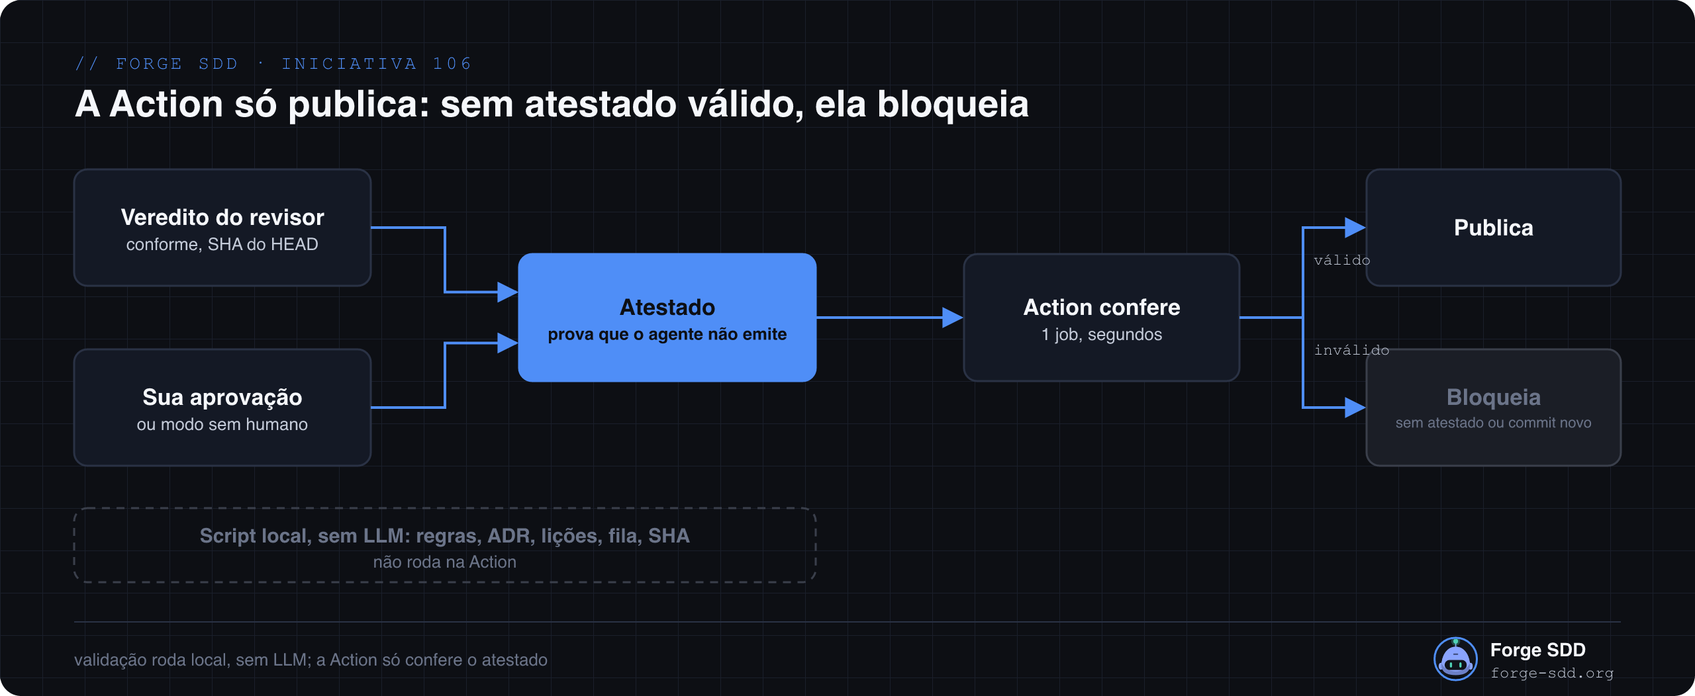
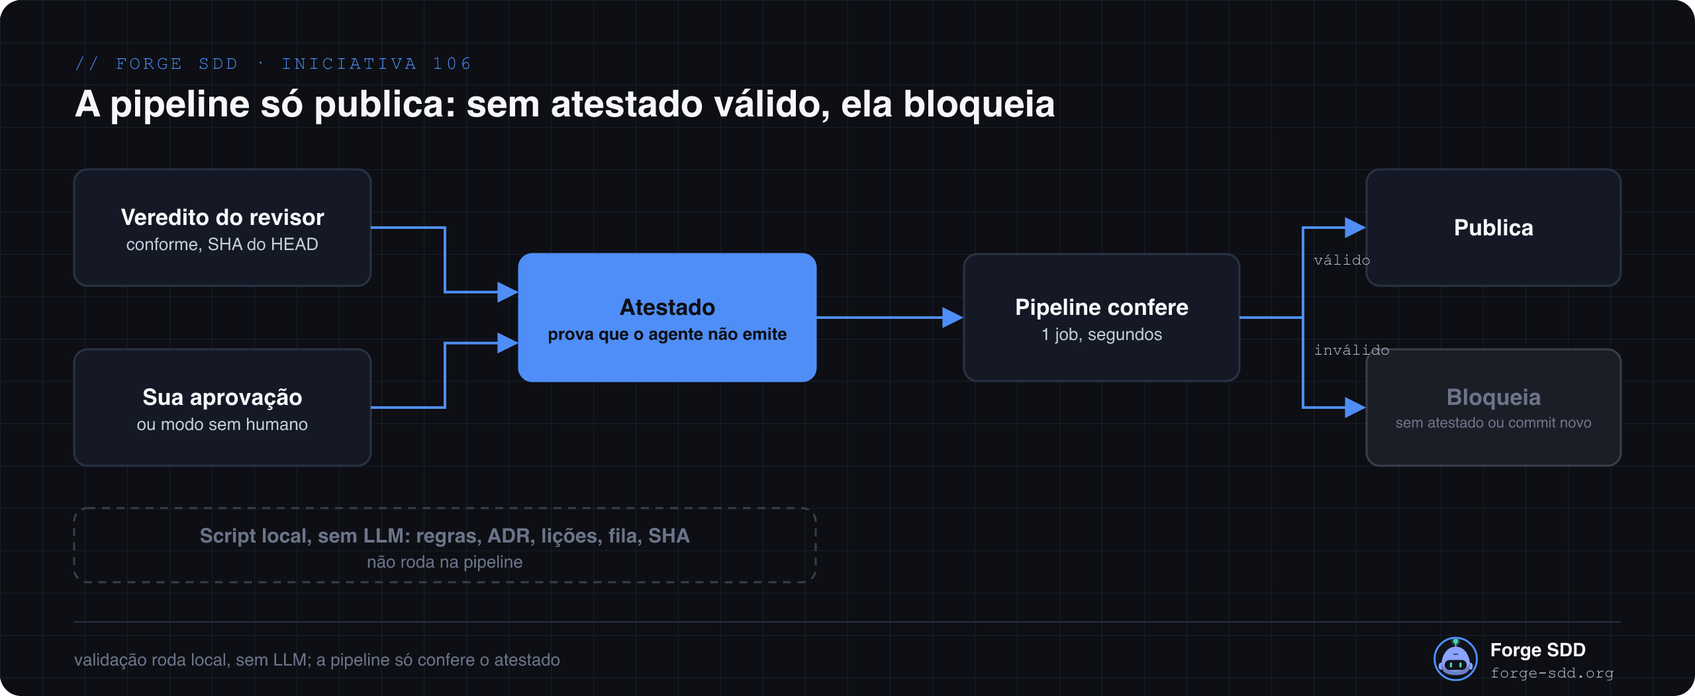
docs(106): política independente de VCS com adaptador lido da Constituição
Adaptador github, azure-devops e nenhum (internal/vcs), tabela por operação com
o que ainda está a verificar no Azure DevOps, hook para gh, az e MCP, atestado por
VCS e onda 0 no plano. Diagramas regerados sem referência a GitHub. Escopo volta
a aguardar reaprovação.

Claude-Session: https://claude.ai/code/session_01SPFA8upV4qiJJ5Y1pRT74k

diff --git a/sdd/discovery/106-pr-draft-revisao-e-ci/discovery.md b/sdd/discovery/106-pr-draft-revisao-e-ci/discovery.md
@@ -23,6 +23,27 @@ Nathan (dono; decide gates e merge) e os agentes que abrem PR nos repositórios 
 - Job pulado por `if` não usa runner (não gasta minuto); a execução aparece vazia.
 - Job pulado conta como sucesso em check obrigatório: um draft pode ser mesclado sem CI. Mitigação: hook e veredito com SHA (RN-6, RN-7).
 
+## Adaptador de VCS (reaberto pelo dono: "a ferramenta de VCS é definida pela Constituição")
+O dono pediu que a política não sirva só a quem usa GitHub. O VCS vem da Constituição (`VCS / Work Item System`: `github`, `azure-devops`, `nenhum`; o `card` do PM MCP em `internal/config/forge.go:185` é outro conceito, o work item). Preferência por economia de tokens: GitHub com `gh`; Azure DevOps com o MCP do Azure DevOps, autenticação interativa (flag exata: **a verificar**), e `az repos` como alternativa.
+
+Legenda: **fato** = conferido no repositório; **a verificar** = não confirmei; a prova proposta está na coluna final.
+
+| Operação | `github` | `azure-devops` | `nenhum` | Prova do "a verificar" |
+|---|---|---|---|---|
+| Criar PR em draft | `gh pr create --draft` (fato: o código hoje usa `gh pr create` sem `--draft`, `internal/pipeline/pr.go:144`) | MCP do Azure DevOps (criar PR; suporte a draft: a verificar); alternativa `az repos pr create --draft true` (nome e valor da flag: a verificar) | não há PR: branch pronta e aviso (fato: nota da Constituição, linha 30) | PR de teste em cada VCS (task 3.5) e consulta à documentação no context7 |
+| Procurar PR aberto da branch | `gh pr list --head <branch> --json ...` (fato: `pr.go:231`) | `az repos pr list --source-branch` ou MCP (a verificar) | n/a | idem |
+| Marcar pronto | `gh pr ready` | MCP (atualizar PR) ou `az repos pr update --id <n> --draft false` (a verificar) | n/a: o [Continuar] só libera a branch | idem |
+| Mesclar | `gh pr merge` (decisão do dono) | `az repos pr update --status completed` ou MCP (a verificar) | merge feito pelo dono fora do Forge | idem |
+| Veredito e SHA | arquivo `verdicts/*.json` com `head_sha` (igual em todos) | igual | igual | testes Go |
+| Aprovação do dono (prova) | Environment com revisor obrigatório (**aprovada**, Decisão vi); fallback commit/tag assinado | candidatos: política de branch com revisores obrigatórios; aprovação em Environment do Azure Pipelines; se o autor pode aprovar o próprio PR: a verificar | só o veredito local com SHA mais a aprovação no chat | PR de teste e documentação; escolha em Decisão xi |
+| Pular CI em draft | Actions: `if: github.event.pull_request.draft == false` e `ready_for_review` (dado pelo dono) | build validation da política de branch; se roda em PR draft: a verificar; variável de draft no pipeline YAML: a verificar | sem CI do VCS | PR de teste draft no Azure |
+| Proteger contra o agente | hook `PreToolUse` em `gh pr ...` | hook em `az repos pr ...` e nas ferramentas MCP (se o matcher alcançar: a verificar) | nada a bloquear | teste do hook (task 1.5) |
+| O que se perde | nada | depende do que o Azure suportar | prova externa: nada impede o agente de forjar veredito e aprovação; CI do VCS inexistente; risco igual ao do modo sem humano | Decisão xii |
+
+Fatos sobre o hook no repositório: `mergeClaudeHook` grava o grupo `{"hooks":[{"type":"command","command":...}]}` **sem a chave `matcher`** (`internal/scaffold/hooks.go:34-111`); portanto hoje não filtra por ferramenta. Se o `PreToolUse` sem matcher cobre todas as ferramentas, incluindo as de MCP, e como o matcher nomeia ferramentas de MCP: **a verificar** (documentação do Claude Code). Plano: o `pr_guard.py` lê o `tool_name` e o comando do JSON do hook e decide por VCS.
+
+Pontos do código que assumem `gh` hoje: `internal/pipeline/pr.go:31` (lista de comandos permitidos só `git` e `gh`), `:138`, `:144`, `:231`, `:244`; `internal/queue/pr.go:19`, `:41`, `:60`, `:101`, `:108`; `cmd/forge-sdd/review.go:90` (texto "publique com gh pr comment"); `internal/config/forge.go:181` (`AllowCommands: git, gh, forge-sdd`); skills e templates `.agents/skills/sdd-operacao/references/inbox.md:9` (`gh pr merge`) e `sdd-governanca/references/pr-review.md`. Já tratam os três valores só texto: `sdd-build/references/implementar.md:26` e `sdd-concepcao/references/constitution.md` passo 3. Não há abstração de VCS no Go (nenhuma ocorrência de "VCS" em `*.go`) e nenhum código lê o campo da Constituição.
+
 ## Diagramas (feitos pela outra sessão com o diagram-studio; conferidos contra esta spec)
 - Fluxo: `diagramas/forge-106-fluxo.png` (`.json`, `.svg`).
 - Atestado: `diagramas/forge-106-atestado.png` (`.json`, `.svg`).
@@ -38,17 +59,19 @@ Conferência em imagem: os três batem com a jornada abaixo (dois pontos de revi
 6. Commits locais, sem revisor no meio. Fila de todas as features vazia e checagem local verde: `pronto-para-revisao`.
 7. **Revisão 2 (entrega):** primeiro o script local determinístico (RN-12); depois o revisor (LLM) só no que exige julgamento, conferindo o código contra a spec e, principalmente, ADRs, rules, Constituição e pré-definições.
 8. Desvio: o revisor abre um **novo-fix** para cada desvio (mapeia o erro, alimenta as lições) e devolve ao Builder. Fix de algo já desenvolvido tem prioridade sobre feature nova; o Builder paraleliza os fixes e devolve ao revisor. Repete até conformidade, com teto (RN-5).
-9. Conforme: o Forge pergunta [Continuar] ou [Ajustar]. Só [Continuar] tira o PR do draft (`gh pr ready`; o CI roda uma vez).
+9. Conforme: o Forge pergunta [Continuar] ou [Ajustar]. Só [Continuar] tira o PR do draft (operação "marcar pronto" do adaptador de VCS; no GitHub, `gh pr ready`; o CI roda uma vez).
 10. Antes de publicar, a pipeline só confere o **atestado** (RN-13). Sem atestado válido, bloqueia. Com checks verdes, o menu do merge (decisão do humano).
 
 ## Regras de negócio
-- **RN-1** O PR nasce em draft (`gh pr create --draft`), sem perguntar, nos três comandos de concepção.
+- **RN-0** A política é **independente de VCS**: um adaptador lido da Constituição (`VCS / Work Item System`: `github`, `azure-devops`, `nenhum`; `sdd/memory/constitution.md:28`) escolhe os comandos. Não há requisito que valha só para GitHub. Onde o Azure DevOps não foi verificado, a spec diz "a verificar" e propõe a prova (tabela abaixo).
+- **RN-1** O PR nasce em draft (operação "criar PR em draft" do adaptador; no GitHub, `gh pr create --draft`), sem perguntar, nos três comandos de concepção. Com `nenhum` não há PR: o Forge deixa a branch pronta e informa.
 - **RN-2** Em draft o CI não roda (jobs pulados). Roda uma vez no `ready_for_review` e na `main`.
 - **RN-3** Revisão em exatamente dois pontos: antes do Builder (spec) e depois (entrega). Nunca no meio, nem por task entregue.
 - **RN-4** Cada ponto tem um sinal determinístico no `status.md`: `spec-para-revisao` e `pronto-para-revisao` (este exige fila da onda vazia e checagem local verde). A revisão só se repete quando o sinal do ponto se repetir.
 - **RN-5** O revisor devolve o veredito ao humano. Ajuste volta a quem originou (discovery, nova-feature, novo-fix ou Builder). Teto de 2 rodadas automáticas por ponto; depois pergunta ao humano.
 - **RN-6** "Fechar o PR?" só aparece com veredito conforme em tudo. O veredito guarda o SHA do HEAD; commit novo o invalida.
-- **RN-7** `gh pr create` só com `--draft`; `gh pr ready` e `gh pr merge` só com veredito conforme do SHA atual. Garantido pelos passos dos comandos **e** por hooks do Claude Code.
+- **RN-7** Criar PR só em draft; marcar pronto e mesclar só com veredito conforme do SHA atual, em qualquer VCS (GitHub: `gh pr create/ready/merge`; Azure DevOps: `az repos pr ...` e as chamadas do MCP do Azure DevOps; `nenhum`: nada a bloquear). Garantido pelos passos dos comandos **e** por hooks do Claude Code que cobrem `gh`, `az repos pr` e, se o hook alcançar, as ferramentas do MCP (a verificar).
+- **RN-17** Caminho de menor custo em tokens: o adaptador prefere, por VCS, o caminho que o dono indicou (GitHub: `gh`; Azure DevOps: MCP do Azure DevOps com autenticação interativa, `az repos` como alternativa) e registra o critério: saída curta (`--json`/`--query`) e sem carregar definições de MCP desnecessárias. A medição real de tokens por caminho é **a verificar** (task 0.1).
 - **RN-8** Todo achado do revisor vira uma lição: um arquivo por lição em `sdd/memory/licoes/<id>.md`, com a rule violada e como evitar. Discovery, nova-feature, novo-fix e Builder leem só as lições da rule que vão tocar (`licoes.py --rule COD-02`). Nunca um arquivo único que cresce.
 - **RN-9** CI: `concurrency` com cancelamento só em PR; matriz de 3 sistemas só em PR pronto e na `main`, nunca em draft; alerta de gasto e checagem mensal por script, sem token no git (`SEG-04`).
 - **RN-10** Linux, Windows e macOS; scripts Python com `uv` e `pathlib`; cada ferramenta com um prompt "cole isto na sua IA" curto no README.
@@ -60,10 +83,11 @@ Conferência em imagem: os três batem com a jornada abaixo (dois pontos de revi
 - **RN-16** Fix de código já desenvolvido tem prioridade sobre feature nova na fila do Builder. O Builder paraleliza o que não tem dependência (features e fixes).
 
 ## O que muda na ordem (conflito com a 100)
-Hoje: veredito conforme, depois PR criado sem draft. `forge queue review` chama `queue.OpenPR` (`cmd/forge-sdd/queue.go:195`), que roda `gh pr create` (`internal/queue/pr.go:61,105`); o Builder do pipeline chama `pipeline.OpenPR` (`internal/pipeline/pr.go:71`). Agora: o PR nasce na concepção; o veredito conforme só habilita "fechar o PR?" e então `gh pr ready`. O que quebra está em `criteria.md` (`O que já existe`) e na task 1.7 do plano.
+Hoje: veredito conforme, depois PR criado sem draft. `forge queue review` chama `queue.OpenPR` (`cmd/forge-sdd/queue.go:195`), que roda `gh pr create` (`internal/queue/pr.go:61,105`); o Builder do pipeline chama `pipeline.OpenPR` (`internal/pipeline/pr.go:71`). Agora: o PR nasce na concepção; o veredito conforme só habilita "fechar o PR?" e então "marcar pronto" (adaptador de VCS). O que quebra está em `criteria.md` (`O que já existe`) e na task 1.7 do plano.
 
 ## Escopo
 **Dentro:** ADR (rascunho abaixo; arquivo só depois do Gate 1); passos de `/discovery`, `/nova-feature`, `/novo-fix`, `/revisar` e `/implementar` e das skills de concepção, build e governança; veredito com `head_sha` e `ponto`; sinais no `status.md`; hooks `PreToolUse` e instalador; `licoes.py` e `sdd/memory/licoes/`; modelo de workflow; `ci-politica.py`; READMEs com prompts "cole isto na sua IA"; templates, goldens e `/upgrade-sdd`; primeira leva de repositórios (Decisão iv).
+**Dentro (reaberto de novo, VCS agnóstico):** adaptador de VCS (`internal/vcs`: `github`, `azure-devops`, `nenhum`) lido da Constituição; `pr_guard.py` para `gh`, `az repos pr` e MCP (a verificar); workflow modelo também para Azure Pipelines (a verificar); PR de teste em cada VCS suportado. As decisões 1 a 5 e vi a ix valem como aprovadas, com a leitura GitHub-específica reescrita (job "pronto?", Actions, Environment são o caso `github`).
 **Dentro (reaberto pelo dono):** script local de validação determinística; job de verificação do atestado; modo sem humano com aviso de riscos; split e implementação pelo Builder sem nova aprovação do split; novo-fix aberto pelo revisor com prioridade; paralelismo do Builder (features e fixes).
 **Fora:** pagar ou alterar billing; migrar de CI; mexer em repositório de cliente sem aprovação; reescrever o laço do pipeline (104) ou o CLI (105); editar a 104 ou a 105; criar o arquivo da ADR agora.
 
@@ -76,7 +100,7 @@ Hoje: veredito conforme, depois PR criado sem draft. `forge queue review` chama 
 - **R6 Hooks só valem no Claude Code.** Gemini e Copilot dependem dos passos dos comandos; documentar.
 - **R7 Goldens e `/upgrade-sdd`.** Muda arquivos que o usuário recebe (`TST-02`).
 - **R8 `uv` nos repositórios-alvo e no Windows:** não verificado; o `doctor` precisa checar.
-- **R10 Atestado forjável (segurança).** Um arquivo no repositório pode ser escrito pelo agente. Se o agente roda com a credencial `gh` do dono, qualquer prova emitida via API do GitHub também é emitível por ele; só resiste o que exige algo fora do alcance do agente (clique no navegador, chave com senha ou hardware). Opções na Decisão vi.
+- **R10 Atestado forjável (segurança).** Um arquivo no repositório pode ser escrito pelo agente. Se o agente roda com a credencial do dono (`gh`, `az` ou MCP autenticado), qualquer prova emitida pela API do VCS com ela também é emitível por ele; só resiste o que exige algo fora do alcance do agente (clique no navegador, chave com senha ou hardware). Opções na Decisão vi.
 - **R11 Split sem aprovação humana.** O Builder pode fatiar fora do escopo aprovado. Mitigação: o script local confere que cada task cita o `plan.md` aprovado e que nenhuma sai dele; a Revisão 2 revisa de novo.
 - **R12 Modo sem humano.** Ninguém vê o código antes de o PR sair do draft; erro do revisor passa; custo sem teto humano (RN-14).
 - **R13 Loop fix-revisão.** O teto atual: `ApplyVerdict` só devolve se `job.Attempt < job.MaxReworkAttempts` (`internal/pipeline/review.go:132`) e o padrão é 3 (`internal/config/forge.go:192`): 3 passadas e 2 devoluções (leitura do código; não rodei). O "teto de 2 rodadas" desta política **coincide** com o padrão; não é preciso baixar para 2 (corrijo minha versão anterior, que dizia "padrão 2"). Já a devolução hoje cria `rework` com `Priority = high` (`review.go:138`), mas é nova tentativa do mesmo job, não um novo-fix. O novo-fix passa a ser o artefato do desvio e reusa o mesmo `Attempt`. Ao estourar, `ActionEscalated` (`review.go:157`) notifica o dono. Para a spec há outro contador (`nextSpecAttempt`, `internal/pipeline/spec.go:31`).
@@ -84,7 +108,8 @@ Hoje: veredito conforme, depois PR criado sem draft. `forge queue review` chama 
 
 ## Rascunho da ADR (não criar o arquivo agora)
 **Número:** próxima livre depois das ADRs da 104 (0016 a 0020) e da 105; atribuir no merge. **Título:** Política de PR em draft, revisão em dois pontos e CI só ao finalizar.
-- **Contexto:** Actions bloqueadas por cobrança; consumo evitável; revisão repetida; o auto-PR da 100 cria PR sem draft.
+- **Contexto:** Actions do GitHub bloqueadas por cobrança (o gatilho); consumo evitável; revisão repetida; o auto-PR da 100 cria PR sem draft; o fluxo chama `gh` direto em dois lugares, mas a Constituição já prevê `azure-devops` e `nenhum`.
+- **Decisão do VCS (correção do dono):** a política é independente de VCS. Um **adaptador de VCS** (novo pacote `internal/vcs`, com `github`, `azure-devops` e `nenhum`) lê o valor de `VCS / Work Item System` e expõe as operações criar PR em draft, procurar PR aberto, marcar pronto e mesclar; `queue.OpenPR` e `pipeline.OpenPR` passam a delegar a ele (hoje duplicam a mesma lógica). Onde o agente usa MCP, a skill orienta a chamada e o hook confere. **Impacto na Constituição:** o campo `VCS / Work Item System` e seus valores **não mudam**; muda só a nota da linha 30 (hoje: "use `az repos pr create` no lugar de `gh pr create`"), que passa a remeter ao adaptador e a incluir draft, pronto e o MCP do Azure DevOps. É texto, mesmo assim vai pela ADR e por `GOV-01`, na task 2.6; não editei a Constituição.
 - **Decisão:** RN-1 a RN-16. Além do que segue: Gate 1 vira pergunta [Seguir]/[Ajustar] e o split passa ao Builder sem nova aprovação (altera `FLX-01`, ver abaixo); revisor abre novo-fix com prioridade; validação final por script local sem LLM; Action só confere o atestado; modo sem humano opcional com aviso de riscos. O PR nasce em draft na concepção; o revisor atua em dois pontos com sinais no `status.md`; o veredito guarda o SHA; `ready` e `merge` só com veredito conforme do SHA atual; lições em arquivos pequenos; CI com `if` de draft, `concurrency` e matriz só em PR pronto e `main`.
 - **Consequências:** menos minutos e menos repetição de erro; custo em hooks, goldens e migração. O Reviewer deixa de criar PR. Estende ADR-0004, ADR-0012 e ADR-0013 sem substituí-las. Exige ajustar `GOV-03` (cita `lessons.md`) e `FLX-01` via `GOV-01` (a Constituição não é editada nesta discovery).
 - **Impacto exato no `FLX-01`** (`sdd/memory/constitution.md:98`; também citado em `.agents/skills/sdd-concepcao/SKILL.md` regra 6, `references/discovery.md` passo 11 e `.agents/skills/sdd-planejamento/references/split-features.md` passos 2, 8 e 9). Redação atual: "Spec antes do código: nada é implementado nem enfileirado sem Spec revisada; mudança de escopo revalida a Spec." **Redação APROVADA pelo dono em 2026-11-20** (a Constituição continua sem edição; entra na task 2.6 via `GOV-01`): "Spec antes do código: nada é implementado nem enfileirado sem Spec revisada e aprovada pelo humano no Gate 1 ([Seguir]/[Ajustar]); com o Gate 1 aprovado o Builder faz o split e enfileira sem nova aprovação, só dentro do escopo do `plan.md` aprovado; mudança de escopo revalida a Spec." Não muda o Gate 1; remove só a segunda confirmação humana do `/split-features`. No código, `forge dispatch` hoje recusa iniciativa sem tasks (`internal/pipeline/dispatch.go:130`: "rode /split-features"), então o despacho precisa aceitar job sem tasks e o split vira passo do Builder.
@@ -110,4 +135,7 @@ Decisões 1 a 5 aprovadas e mantidas. Gate 1 reaprovado pelo dono em 2026-11-20 
 7. **(vii) Teto de rodadas com novo-fix:** manter o padrão atual (`max_rework_attempts` = 3, ou seja 2 devoluções) e contar o novo-fix na mesma conta do job. **Recomendo manter**; ao estourar, pergunta ao dono. Alternativa: contador separado por fix (mais permissivo, mais custo).
 8. **(viii) Assinatura dos diagramas da 106:** padrão do plugin ou nenhuma? A outra sessão diz que o dono aprovou a padrão; não consegui confirmar (na 118 ele escolheu "sem assinatura"). Resolvida: assinatura do projeto (Forge SDD, forge-sdd.org, avatar `diagramas/forge-sdd-avatar.png`, desenho de `MascotFallbackSvg.astro`, cor #8aa4ff, marca "bar"); sem nome nem LinkedIn pessoais.
 9. **(ix) Formato do BPMN.** O BPMN simplificado (gateways como caixas "◇", eventos como pílulas, 4 raias) mostra quem faz o quê e os dois gates, que é o que o Gate 1 precisa. Não mostra o teto de rodadas como evento de escalonamento, o script local nem a escolha do modo. **Recomendo manter o simplificado** na spec e só migrar para BPMN completo (eventos, escalonamento) se a ADR final pedir um diagrama normativo. A legenda no rodapé cobre o teto e o modo.
-10. **(x) PRs de task do leque em draft** continua em `status.md` (A confirmar), junto com o escopo do novo fluxo: o dono precisa reaprovar o escopo antes do `/split-features`.
+11. **(xi) Prova do atestado por VCS** (novo; não troca a (vi) aprovada para o GitHub). GitHub: (e) Environment com revisor, fallback (d). Azure DevOps: candidatos (1) aprovação em Environment do Azure Pipelines com aprovadores, (2) política de branch com revisores obrigatórios e build validation, (3) commit assinado. **Recomendo (1)**, por ser o análogo direto do Environment do GitHub, sujeito às provas da task 3.5; só vale se o Azure permitir que o agente não emita a aprovação (a verificar). `nenhum`: ver (xii).
+12. **(xii) `nenhum`: aceitar atestado só local** (veredito com SHA e aprovação no chat)? **Recomendo sim, com aviso explícito** dos riscos (sem prova externa, igual ao modo sem humano) gravado no `status.md` e no veredito.
+13. **(xiii) Critério de custo em tokens** entre MCP e CLI: manter a preferência do dono (`gh`; MCP do Azure DevOps com `az` de alternativa) e medir na task 0.1. **Recomendo** registrar a medição antes de fixar o padrão por VCS.
+(Itens 6 a 9 e o `FLX-01` foram aprovados; 11 a 13 são novos e reabrem o Gate 1 para o escopo VCS agnóstico.) PRs de task do leque em draft segue em `status.md` (A confirmar); o dono precisa reaprovar o escopo antes do `/split-features`.

diff --git a/sdd/discovery/106-pr-draft-revisao-e-ci/criteria.md b/sdd/discovery/106-pr-draft-revisao-e-ci/criteria.md
@@ -8,7 +8,7 @@
 - `TST-01`, `TST-02` (goldens), `TST-03` (casos conformes e negativos), `TST-04`, `COD-05`, `GOV-01` (ajustar `GOV-03` e, se a Decisão i mudar, a regra 2 exige ADR).
 
 ## Modelo do módulo
-**Enxuto**, com justificativa (`ARQ-11`): não há pacote de domínio novo. A política é distribuída em (a) um campo novo no contrato existente do veredito (`internal/harness`), (b) mudança de ordem em `internal/queue` e `internal/pipeline`, (c) scripts Python e workflow modelo entregues pelo scaffold e (d) texto dos comandos e skills. Cada parte tem um dono único: o veredito (`harness`), a abertura e o fechamento do PR (`queue`/`pipeline`), a barreira de `gh` (hook), a lição (`licoes.py`), o CI (workflow e `ci-politica.py`). Sem estado persistente novo além de `head_sha` no veredito e dos arquivos de lição.
+**Completo** (`ARQ-11`; antes era enxuto, mudou com o escopo VCS agnóstico): um pacote novo, `internal/vcs` (interface `Adaptador` com criar PR em draft, procurar PR aberto, marcar pronto e mesclar; implementações `github`, `azure-devops` e `nenhum`; leitura do campo `VCS / Work Item System` da Constituição), com dependência para dentro (só stdlib, `ARQ-04`) e sem importar `cmd/` (`ARQ-01`, `ARQ-02`). O restante é distribuído em (a) um campo novo no contrato do veredito (`internal/harness`), (b) `internal/queue` e `internal/pipeline` passam a delegar ao adaptador, (c) scripts Python e workflows modelo entregues pelo scaffold e (d) texto dos comandos e skills. Cada parte tem um dono único: o veredito (`harness`), a abertura e o fechamento do PR (`queue`/`pipeline`), a barreira de `gh` (hook), a lição (`licoes.py`), o CI (workflow e `ci-politica.py`). Sem estado persistente novo além de `head_sha` no veredito e dos arquivos de lição.
 
 ## Decisões do projeto aplicadas
 - **ADR-0004:** o Go decide o fluxo; o revisor não aprova nem cria PR por conta própria. Esta iniciativa estende: o PR é criado antes, na concepção.
@@ -23,6 +23,8 @@
 | Procurei | Onde | Achei | Decisão | Justificativa |
 |---|---|---|---|---|
 | Revisão do PR e fila | `forge queue review`; `cmd/forge-sdd/queue.go:185-199` | Registra o parecer e, se `conforme` e sem `--no-pr`, chama `queue.OpenPR` | **Estender**: conforme não cria PR; oferece "fechar o PR?" | `DUP-03`; a flag `--no-pr` vira o padrão |
+| Abstração de VCS | `*.go` (busca por "VCS"), `sdd/memory/constitution.md:28,30`, `.agents/skills/sdd-build/references/implementar.md:26`, `sdd-concepcao/references/constitution.md` passo 3 | Nenhuma no Go; nenhum código lê o campo da Constituição; só as skills tratam `github`, `azure-devops` e `nenhum`, em texto; `forge.go:185` lista `azure-devops` para o card (PM), outro conceito | **Criar** `internal/vcs`; o texto das skills passa a apontar para ele | `DUP-01`: um dono para PR; dois `OpenPR` duplicam hoje |
+| Chamadas `gh` no Go | `internal/pipeline/pr.go:31,138,144,231,244`; `internal/queue/pr.go:19,41,60,101,108`; `cmd/forge-sdd/review.go:90`; `internal/config/forge.go:181` (`AllowCommands`) | `gh` fixo; lista de comandos permitidos só `git`/`gh` (`SEG-03`) | **Estender**: delegar ao adaptador; permitir `az` apenas no adaptador do Azure | `DUP-03`, `SEG-03` |
 | Criação de PR (fila) | `internal/queue/pr.go:35,61,105` | `gh pr create` sem `--draft` | **Estender**: só `ready` se o PR existe; sem PR, erro orientando | Ordem invertida (RN-7) |
 | Criação de PR (pipeline) | `internal/pipeline/pr.go:71,131` | `OpenPR` do Builder: gate A, push, `findOpenPR`, cria se não existir, corrige base | **Estender**: PR existente é o caso normal; se faltar, abre em draft | `findOpenPR` já trata o PR pré-existente |
 | Reviewer da esteira | `internal/pipeline/review.go:60` (`ApplyVerdict`), `internal/pipeline/spec.go:72` (`ApplySpecVerdict`), `prompt.go:56-66` | Dois aplicadores: entrega e spec; checklist único `ReviewChecklist` | **Reusar**: já são os dois pontos | `DUP-01`; só falta o sinal e o SHA |
@@ -48,7 +50,7 @@
 | Sobreposição com a 105 | `feat/105-experiencia-cli-e-harness` (`discovery.md`, `plan.md`) | Onda 1 troca "5 estações" nos mesmos templates e goldens; onda 2 cria menus e tema (RN-7 da 105 = handoff com menu: as perguntas [Seguir]/[Continuar] devem usar o mesmo componente); onda 3 mede proficiência (`doctor --harness`, `eval`) | **Independente**: lições, CI, atestado, `pr_guard`, `validar_entrega.py`, veredito. **Colide**: templates e goldens de comandos e skills (inclui `split-features.md`), `hooks.go`, texto do `doctor`, menus, numeração de ADR. Não editei a 105 | Detalhe em `status.md` |
 
 ## Dependências novas
-**Nenhuma no binário nem no `go.mod`** (`ARQ-04`, `SEG-07`). Ferramentas já usadas ou do ambiente do dono: `gh` (já usado pelo código, `internal/queue/pr.go`), `git`, `uv` e Python 3 para os scripts distribuídos (não entram no binário; a task 1.3 consulta o `context7`/documentação do `uv` na versão exata antes de fixar o comando e o `doctor` passa a checar a presença). Nenhum token de CI ou de billing é guardado no repositório: `ci-politica.py` lê `gh auth` do ambiente.
+**Nenhuma no binário nem no `go.mod`** (`ARQ-04`, `SEG-07`). Ferramentas já usadas ou do ambiente do dono, conforme o VCS da Constituição: `gh` (já usado pelo código, `internal/queue/pr.go`) no `github`; no `azure-devops`, o `az` (CLI do Azure, com a extensão `azure-devops`: a verificar) e/ou o MCP do Azure DevOps (autenticação interativa; ainda não está em `sdd/memory/mcps.md`, que lista só `context7` e `git`); `nenhum` não usa nenhuma. Também `git`, `uv` e Python 3 para os scripts distribuídos (não entram no binário; a task 1.3 consulta o `context7`/documentação do `uv` na versão exata antes de fixar o comando e o `doctor` passa a checar a presença). Nenhum token de CI ou de billing é guardado no repositório: `ci-politica.py` lê a autenticação do VCS do ambiente (`gh auth` ou `az login`). A consulta ao `context7`/documentação do `az repos` e do MCP do Azure DevOps (`SEG-07`) é pré-requisito da task 0.1.
 
 ## Diagramas
 Diagramas do diagram-studio (versionados em `diagramas/`): fluxo `diagramas/forge-106-fluxo.png`, atestado `diagramas/forge-106-atestado.png` e BPMN simplificado `diagramas/forge-106-bpmn.png` (cada um com `.json` e `.svg`). Os três Mermaid abaixo (C4) refletem o fluxo final.
@@ -60,12 +62,12 @@ flowchart LR
   A["Agentes: Discovery,<br/>Builder e Revisor"]
   F["forge-sdd<br/>comandos, hooks, scripts"]
   R["Repositório do projeto<br/>spec, status, lições"]
-  G["GitHub<br/>PR, draft"]
-  P["Pipeline (Action)<br/>só confere o atestado e publica"]
+  G["VCS (Constituição)<br/>PR, draft"]
+  P["Pipeline do VCS<br/>só confere o atestado e publica"]
   H -->|"decide nos 2 gates"| A
   A -->|"usa"| F
   F -->|"grava artefatos"| R
-  F -->|"gh pr create, ready"| G
+  F -->|"adaptador: criar, pronto"| G
   H -->|"prova de aprovação"| G
   G -->|"dispara ao sair do draft"| P
   P -->|"publica se atestado vale"| G
@@ -76,12 +78,12 @@ flowchart LR
 flowchart TB
   CMD["Comandos e skills<br/>passos e menus"]
   HK["Hook PreToolUse<br/>pr_guard.py"]
-  CLI["forge CLI em Go<br/>review, queue, dispatch"]
+  CLI["forge CLI em Go<br/>review, queue, internal/vcs"]
   VAL["validar_entrega.py<br/>local, sem LLM"]
   VER["Veredito JSON<br/>head_sha, ponto, modo"]
   LIC["licoes.py<br/>sdd/memory/licoes"]
   ACT["Job atestado<br/>ubuntu, segundos"]
-  GH["GitHub<br/>PR e Actions"]
+  GH["VCS: github, azure-devops<br/>ou nenhum"]
   CMD -->|"abre draft"| GH
   CMD -->|"chama"| CLI
   CLI -->|"roda"| VAL
@@ -89,7 +91,7 @@ flowchart TB
   CLI -->|"grava e novo-fix"| LIC
   CMD -->|"lê lições da rule"| LIC
   HK -->|"lê"| VER
-  HK -->|"bloqueia gh fora da regra"| GH
+  HK -->|"bloqueia gh, az, MCP fora da regra"| GH
   ACT -->|"confere SHA e prova"| GH
 ```
 
@@ -100,8 +102,8 @@ sequenceDiagram
   participant C as Comando
   participant R as Revisor
   participant B as Builder
-  participant G as GitHub
-  C->>G: push e gh pr create --draft
+  participant G as VCS
+  C->>G: push e criar PR em draft
   C->>R: spec-para-revisao
   R-->>D: conforme: Seguir ou Ajustar?
   D->>B: Seguir (sem aprovar o split)
@@ -109,7 +111,7 @@ sequenceDiagram
   B->>R: pronto-para-revisao
   R-->>B: desvio vira novo-fix, prioridade
   R-->>D: conforme: Continuar ou Ajustar?
-  D->>G: Continuar: gh pr ready e prova
+  D->>G: Continuar: marcar pronto e prova
   G->>G: job confere o atestado e publica
 ```
 
@@ -122,11 +124,13 @@ go build ./... && go vet ./... && go test ./...
 go test ./internal/harness/... -run 'TestParecerGravaHeadSHA'
 go test ./internal/queue/... -run 'TestReviewConformeNaoCriaPR'
 go test ./internal/scaffold/... -run 'TestMergePreToolUseHook'
+go test ./internal/vcs/... -run 'TestGitHubCriaPRComDraft|TestAzureDevOpsCriaPRSemGitHub|TestNenhumDeixaABranchPronta|TestLeVCSDaConstituicao'
 go test ./internal/pipeline/... -run 'TestDesvioAbreNovoFixComPrioridade|TestBuilderFazSplitSemSegundaAprovacao|TestFixesParalelosNaOnda'
 uv run --no-project python -m unittest discover -s scripts/tests -p 'test_*.py'
 uv run scripts/validar_entrega.py --json --sem-llm
 uv run scripts/atestado.py --verificar --sha HEAD
 uv run scripts/pr_guard.py --check 'gh pr create --draft --fill'
+uv run scripts/pr_guard.py --check 'az repos pr create --draft true --title x'
 uv run scripts/licoes.py --rule COD-02 | grep -o 'COD-02' | wc -l
 # negativo: cada caso abaixo deve falhar, e o teste existe de fato
 go test ./internal/harness/... -list 'TestParecerSemHeadSHARecusado' | grep -F 'TestParecerSemHeadSHARecusado'
@@ -135,6 +139,14 @@ go test ./internal/queue/... -list 'TestReadySemVereditoDoSHARecusado' | grep -F
 go test ./internal/queue/... -run 'TestReadySemVereditoDoSHARecusado'
 go test ./internal/pipeline/... -list 'TestTerceiraRodadaPerguntaAoHumano' | grep -F 'TestTerceiraRodadaPerguntaAoHumano'
 go test ./internal/pipeline/... -run 'TestTerceiraRodadaPerguntaAoHumano'
+go test ./internal/vcs/... -list 'TestAzureDevOpsNaoChamaGh' | grep -F 'TestAzureDevOpsNaoChamaGh'
+go test ./internal/vcs/... -run 'TestAzureDevOpsNaoChamaGh'
+go test ./internal/vcs/... -list 'TestNenhumNaoExecutaComandoDeVCS' | grep -F 'TestNenhumNaoExecutaComandoDeVCS'
+go test ./internal/vcs/... -run 'TestNenhumNaoExecutaComandoDeVCS'
+go test ./internal/vcs/... -list 'TestVCSDesconhecidoRecusado' | grep -F 'TestVCSDesconhecidoRecusado'
+go test ./internal/vcs/... -run 'TestVCSDesconhecidoRecusado'
+if uv run scripts/pr_guard.py --check 'az repos pr create --title x'; then exit 1; fi
+if uv run scripts/pr_guard.py --check 'az repos pr update --id 7 --draft false'; then exit 1; fi
 go test ./internal/pipeline/... -list 'TestSplitForaDoPlanoRecusado' | grep -F 'TestSplitForaDoPlanoRecusado'
 go test ./internal/pipeline/... -run 'TestSplitForaDoPlanoRecusado'
 go test ./internal/pipeline/... -list 'TestModoSemHumanoExigeAvisoDeRiscos' | grep -F 'TestModoSemHumanoExigeAvisoDeRiscos'
@@ -144,7 +156,8 @@ if uv run scripts/validar_entrega.py --json --sem-llm --fixture scripts/tests/fi
 if uv run scripts/pr_guard.py --check 'gh pr create --fill'; then exit 1; fi
 if uv run scripts/pr_guard.py --check 'gh pr merge 7'; then exit 1; fi
 ```
-- Draft real: um PR de teste com `gh pr create --draft` mostra todos os jobs `skipped`; depois de `gh pr ready` os jobs rodam uma vez (task 3.5; evidência colada no PR).
+- Cada VCS suportado tem prova própria na task 3.5: `github` (abaixo), `azure-devops` (PR de teste em draft; se a build validation roda em draft e como marcar pronto: a verificar) e `nenhum` (branch pronta, sem comando de VCS).
+- Draft real no GitHub: um PR de teste com `gh pr create --draft` mostra todos os jobs `skipped`; depois de `gh pr ready` os jobs rodam uma vez (task 3.5; evidência colada no PR).
 - Atestado real: no mesmo PR de teste, `gh pr ready` com SHA sem veredito conforme faz o job de atestado falhar e bloquear a publicação; com atestado válido ele passa (task 3.5).
 - Dois pontos: com fila de 3 tasks entregues, o laço registra 0 revisões entre `spec-para-revisao` e `pronto-para-revisao` (task 1.6); os fixes abertos pelo revisor não disparam revisão até o sinal se repetir.
 - `validar_entrega.py` nunca chama LLM nem rede, e não é referenciado em nenhum workflow (conferência em `3.2`).

diff --git a/sdd/discovery/106-pr-draft-revisao-e-ci/plan.md b/sdd/discovery/106-pr-draft-revisao-e-ci/plan.md
@@ -1,6 +1,14 @@
-# Plano — 106 (3 ondas, de baixo para cima)
+# Plano — 106 (4 ondas, de baixo para cima; escopo VCS agnóstico)
 
 Ordem: contrato e scripts primeiro; depois o fluxo; CI e atestado por último. Nada roda sem a reaprovação do escopo (`FLX-01`). Cada task traz teste negativo (`TST-03`) e passa em `forge gate --criterios`. Até 7 tasks por onda.
+
+## Onda 0 — Adaptador de VCS (base; o VCS vem da Constituição: `github`, `azure-devops`, `nenhum`)
+| # | Task | Depende de | Paralelo | Rules |
+|---|---|---|---|---|
+| 0.1 | Verificar o que está "a verificar" na tabela do discovery: documentação (context7) do `az repos pr` e do MCP do Azure DevOps (flags de draft, marcar pronto, merge, autenticação interativa), build validation em draft, aprovação em Environment e se o autor aprova o próprio PR; medir tokens MCP versus CLI; escrever o resultado na spec | — | com 0.2 | `SEG-07`, `DUP-02` |
+| 0.2 | `internal/vcs`: interface `Adaptador` (criar PR em draft, procurar PR aberto, marcar pronto, mesclar), leitura de `VCS / Work Item System` da Constituição, adaptadores `github` (move a lógica de `pipeline/pr.go` e `queue/pr.go`) e `nenhum` (branch pronta, sem comando); valor desconhecido é recusado | — | com 0.1 | `ARQ-01`, `ARQ-02`, `DUP-01`, `SEG-03`, `TST-03` |
+| 0.3 | Adaptador `azure-devops` (CLI `az repos pr`, só no adaptador; o MCP é orientado pela skill); `AllowCommands` aceita `az` apenas nele; teste sem `gh` no PATH | 0.1, 0.2 | — | `SEG-03`, `SEG-07`, `TST-03` |
+| 0.4 | `doctor` verifica o VCS declarado e a ferramenta correspondente (`gh`, `az` ou MCP) e avisa se faltar | 0.2 | com 0.3 | `ARQ-05`, `TST-03` |
 
 ## Onda 1 — Mecanismo (contrato, scripts locais, hooks)
 | # | Task | Depende de | Paralelo | Rules |
@@ -8,30 +16,30 @@ Ordem: contrato e scripts primeiro; depois o fluxo; CI e atestado por último. N
 | 1.1 | `harness.Parecer` ganha `head_sha`, `ponto` (`spec` ou `entrega`) e `modo` (`com-humano` ou `sem-humano`); `persistVerdict` os grava a partir do HEAD; veredito sem SHA é recusado | — | com 1.2 | `DUP-06`, `FLX-06`, `SEG-01`, `TST-03` |
 | 1.2 | `scripts/licoes.py` (`uv`, `pathlib`) + `sdd/memory/licoes/` + teste; `forge lessons add` grava um arquivo por lição; migra as 2 entradas atuais | — | com 1.1 | `DUP-01`, `ARQ-03`, `GOV-03`, `TST-03` |
 | 1.3 | `scripts/validar_entrega.py`: validação local determinística, sem LLM e sem rede (rules por ID, ADR citada e vigente, estrutura da spec, lições lidas, fila vazia, SHA); entrega JSON com `ok` e a lista `julgamento` (o que sobra para o LLM); reusa `forge gate --json` | 1.1 | — | `FLX-06`, `DUP-03`, `SEG-03`, `TST-03` |
-| 1.4 | `scripts/pr_guard.py --check`: bloqueia `gh pr create` sem `--draft`, `gh pr ready` e `gh pr merge` sem veredito conforme do SHA atual; consulta ao `uv` no context7 | 1.1 | com 1.3 | `SEG-01`, `SEG-03`, `SEG-07`, `FLX-08` |
-| 1.5 | Instalador do hook `PreToolUse` (matcher `Bash`) em `hooks.go` e no `.claude/settings.json`; `doctor` checa `uv` e o hook | 1.4 | — | `SEG-02`, `ARQ-05`, `TST-02` |
+| 1.4 | `scripts/pr_guard.py --check`: lê o VCS da Constituição e bloqueia criar PR sem draft, marcar pronto e mesclar sem veredito conforme do SHA atual, cobrindo `gh pr ...`, `az repos pr ...` e as ferramentas do MCP (se o hook alcançar: a verificar); consulta ao `uv` no context7 | 0.2, 1.1 | com 1.3 | `SEG-01`, `SEG-03`, `SEG-07`, `FLX-08` |
+| 1.5 | Instalador do hook `PreToolUse` em `hooks.go` (hoje `mergeClaudeHook` não grava `matcher`; passa a aceitar matcher para `Bash` e, se a 0.1 confirmar, para as ferramentas de MCP) e no `.claude/settings.json`; `doctor` checa `uv` e o hook | 1.4 | — | `SEG-02`, `ARQ-05`, `TST-02` |
 | 1.6 | Sinais `spec-para-revisao` e `pronto-para-revisao` no `status.md` (leitura e validação em `internal/`); linha `Modo:` (com ou sem humano) dentro do teto de 1 KB (P-21) | 1.1 | com 1.4 | `FLX-06`, `ARQ-01`, `TST-03` |
 | 1.7 | Modo sem humano: pergunta no início da sessão com aviso de riscos (nenhuma pessoa vê o código antes do PR sair do draft; erro do revisor passa; custo sem teto humano), padrão com humano; grava o modo | 1.1, 1.6 | — | `FLX-01`, `SEG-05`, `TST-03` |
 
 ## Onda 2 — Fluxo (split pelo Builder, fix com prioridade, perguntas, ordem do PR)
 | # | Task | Depende de | Paralelo | Rules |
 |---|---|---|---|---|
-| 2.1 | `forge queue review` e `pipeline.OpenPR`: veredito conforme não cria PR; PR existente é o padrão; `ready` só com SHA igual e [Continuar] | 1.1, 1.6 | — | `ARQ-02`, `DUP-03`, `FLX-03` |
+| 2.1 | `forge queue review` e `pipeline.OpenPR` delegam ao adaptador de VCS: veredito conforme não cria PR; PR existente é o padrão; "marcar pronto" só com SHA igual e [Continuar] (com `nenhum`, só libera a branch) | 0.2, 1.1, 1.6 | — | `ARQ-02`, `DUP-03`, `FLX-03` |
 | 2.2 | Revisor abre novo-fix por desvio (usa 1.3 e 1.2: mapeia o erro e grava a lição), devolve ao Builder, prioridade sobre feature nova; teto: padrão `max_rework_attempts` 3 (2 devoluções) na mesma conta do `Attempt`; ao estourar, pergunta ao dono | 1.2, 1.3, 2.1 | — | `FLX-06`, `DUP-01`, `TST-03` |
 | 2.3 | Split pelo Builder sem nova aprovação: `dispatch` aceita job sem tasks; passo do Builder cria `features/`; checagem determinística de que toda task cita o `plan.md` e nada sai dele | 1.3 | com 2.2 | `FLX-01`, `FLX-02`, `TST-03` |
 | 2.4 | Paralelismo do Builder para features e fixes: `PlanWaves` com `Builder.MaxParallelTasks` e o leque (`PrepararLeque`/`Juntar`); verificar a ligação do leque ao laço do goal | 2.3 | com 2.2 | `DUP-03`, `ARQ-02`, `TST-04` |
 | 2.5 | Passos dos comandos e skills: `/discovery`, `/nova-feature`, `/novo-fix` abrem draft; [Seguir]/[Ajustar] e [Continuar]/[Ajustar]; `/split-features` vira passo do Builder; leitura só das lições da rule; templates e goldens | 1.5, 1.7, 2.1, 2.3 | — | `DUP-10`, `TST-02`, `COD-05`, `FLX-01` |
-| 2.6 | ADR final (próxima livre) e redação nova do `FLX-01` e do `GOV-03` (`GOV-01`); `concepts.md` | 2.5 | — | `GOV-01`, `FLX-05` |
+| 2.6 | ADR final (próxima livre; inclui a decisão do adaptador de VCS), redação nova do `FLX-01` e do `GOV-03` e da nota da linha 30 de `VCS / Work Item System` (`GOV-01`); `concepts.md` (dono de PR: `internal/vcs`) | 2.5 | — | `GOV-01`, `FLX-05` |
 | 2.7 | `/upgrade-sdd` leva a política; `forge update` e goldens; nota de versão | 2.5, 2.6 | — | `TST-02`, `FLX-07` |
 
 ## Onda 3 — CI, atestado e adoção
 | # | Task | Depende de | Paralelo | Rules |
 |---|---|---|---|---|
-| 3.1 | Workflow modelo: `if` de draft, `ready_for_review`, `concurrency` só em PR, matriz de 3 SO só em PR pronto e `main`, job "pronto?" só no check obrigatório da `main`; aplicar ao `ci.yml` do forge-sdd | — | com 3.3 | `ARQ-03`, `SEG-04` |
-| 3.2 | Job de verificação do atestado (ubuntu, segundos): `scripts/atestado.py --verificar` confere veredito conforme do SHA do HEAD e a prova escolhida (Decisão vi); `validar_entrega.py` fora da Action | 1.1, Decisão vi | com 3.1 | `SEG-04`, `SEG-05`, `FLX-06` |
+| 3.1 | Workflow modelo por VCS: no `github`, `if` de draft, `ready_for_review`, `concurrency` só em PR, matriz de 3 SO só em PR pronto e `main`, job "pronto?" só no check obrigatório da `main`; aplicar ao `ci.yml` do forge-sdd. No `azure-devops`, modelo de Azure Pipelines e política de branch (build validation; comportamento em draft: a verificar na 0.1); no `nenhum`, nada | 0.1 | com 3.3 | `ARQ-03`, `SEG-04` |
+| 3.2 | Verificação do atestado (job ubuntu, segundos): `scripts/atestado.py --verificar` confere veredito conforme do SHA do HEAD e a prova escolhida por VCS (Decisões vi e xi: GitHub, Environment com revisor; Azure DevOps, equivalente a confirmar; `nenhum`, veredito local mais aprovação no chat); `validar_entrega.py` fora da pipeline | 0.1, 1.1, Decisão xi | com 3.1 | `SEG-04`, `SEG-05`, `FLX-06` |
 | 3.3 | `scripts/ci-politica.py`: lista repositórios, marca ok/fora, alerta de gasto e checagem mensal; sem token no git | — | com 3.1 | `SEG-04`, `SEG-05` |
 | 3.4 | README: um prompt curto "cole isto na sua IA" por ferramenta; notas para Windows, Linux e macOS | 3.1, 3.2, 3.3 | — | `COD-05`, `GOV-04` |
-| 3.5 | Prova: PR de teste draft para ready (jobs `skipped`, depois uma execução), atestado inválido bloqueando e **Environment com revisor obrigatório em repositório pessoal privado** (se o plano não permitir, fallback commit/tag assinado), em cada repositório da primeira leva | 3.1, 3.2 | — | `TST-01` |
+| 3.5 | Prova em **cada VCS suportado** (`github`, `azure-devops`, `nenhum`; o teste de `azure-devops` e `nenhum` roda sem GitHub): PR de teste draft para ready (jobs `skipped`, depois uma execução), atestado inválido bloqueando e **Environment com revisor obrigatório em repositório pessoal privado** (se o plano não permitir, fallback commit/tag assinado), em cada repositório da primeira leva | 3.1, 3.2 | — | `TST-01` |
 | 3.6 | Aplicar nos repositórios da primeira leva via `/upgrade-sdd`, com aprovação do dono por repositório | 2.7, 3.5 | — | `FLX-01` |
 
-Caminho crítico: 1.1, 1.3, 2.1, 2.3, 2.5, 2.7, 3.6. As tasks 2.5 e 2.7 tocam templates e goldens que a 105 também altera; 2.5 também toca `split-features.md`. Sequenciar com a 105 para não regravar goldens duas vezes.
+Caminho crítico: 0.2, 1.1, 1.3, 2.1, 2.3, 2.5, 2.7, 3.6. As tasks 2.5 e 2.7 tocam templates e goldens que a 105 também altera; 2.5 também toca `split-features.md`. Sequenciar com a 105 para não regravar goldens duas vezes.

diff --git a/sdd/discovery/106-pr-draft-revisao-e-ci/status.md b/sdd/discovery/106-pr-draft-revisao-e-ci/status.md
@@ -1,20 +1,17 @@
 # Status — 106-pr-draft-revisao-e-ci
 
-**Status:** Gate 1 reaprovado pelo dono em 2026-11-20 (escopo com split pelo Builder, atestado, modo sem humano, validação local). Nada implementado. PR #120 em draft.
+**Status:** aguardando reaprovação do escopo (VCS agnóstico: `github`, `azure-devops`, `nenhum`; adaptador lido da Constituição). Nada implementado. PR #120 em draft.
 **Modo:** com-humano (padrão).
-**Próximo passo:** `/split-features` da onda 1, sequenciando as tasks 1.7, 2.5 e 2.6 com a 105.
+**Próximo passo:** o dono responde `A confirmar`; depois `/split-features` da onda 0.
 
-## Decisões do Gate 1
-1. `feat/`; 2. PR de teste de draft em repo pessoal; 3. "pronto?" só na `main`; 4. primeira leva; 5. migrar `lessons.md`.
-6. Atestado (vi): Environment com revisor (e), fallback assinado (d).
-7. Teto (vii): manter 3 (2 devoluções).
-8. Assinatura (viii): Forge SDD, sem LinkedIn.
-9. BPMN (ix): simplificado.
-10. `FLX-01`: nova redação aprovada (Constituição só na task 2.6).
+## Decisões já aprovadas (mantidas)
+1 a 5; vi (GitHub: Environment com revisor, fallback assinado); vii (teto 3); viii (assinatura Forge SDD); ix (BPMN simplificado); `FLX-01` nova redação.
 
 ## A confirmar
-- PRs de task do leque em draft?
-- Hooks só no Claude Code (Gemini e Copilot)?
+- Atestado por VCS (xi): rec. Azure Environment com aprovadores (a verificar); `nenhum` só local (xii).
+- O que o Azure DevOps suporta de fato: a verificar (task 0.1).
+- Custo MCP versus CLI (xiii).
+- PRs de task do leque em draft? Hooks só no Claude Code?
 
 ## Colisão com a 105
 Templates, goldens, `split-features.md`, `hooks.go`, `doctor`, menus, nº da ADR.
